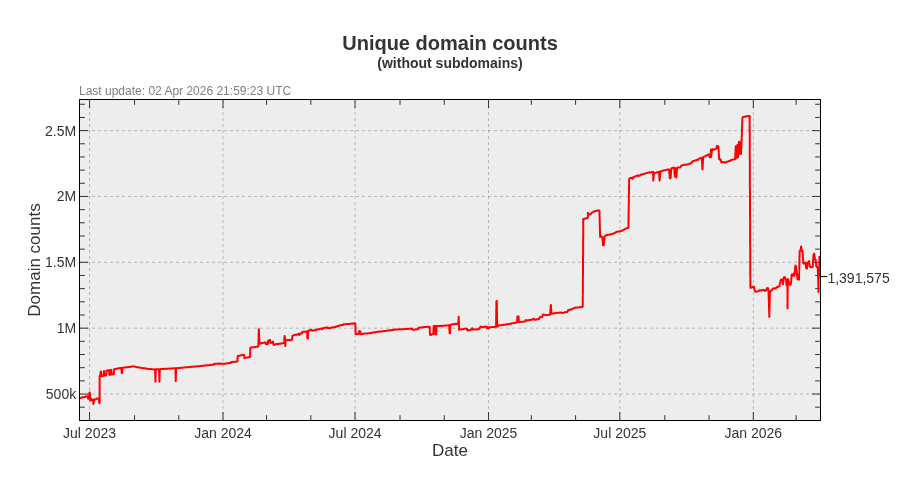
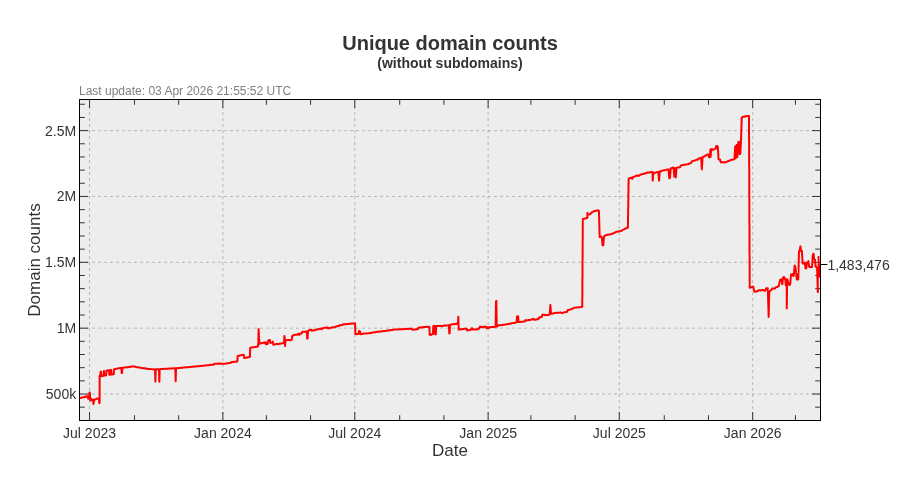
Update pages

diff --git a/README.md b/README.md
@@ -3,22 +3,22 @@ A blocklist file for blocking ads, trackers and malware domains.
 
[1 lines of base64/hex data omitted]
 
-- Unique domains: 2,035,772
-- Without subdomains: 1,391,575
-- Last update: 02 Apr 2026 21:59:23 UTC
-- Version: 2026.04.02.01
+- Unique domains: 2,134,493
+- Without subdomains: 1,483,476
+- Last update: 03 Apr 2026 21:55:52 UTC
+- Version: 2026.04.03.01
 
 
 ## Downloads:
 
 | Format             | Domain count      | Download Link |
 |------------------ | -----------------|-------------|
-| *Adblock Plus*     | 1,391,575 | [bad-hosts-abp](https://dl.cenk.app/bad-hosts/bad-hosts-abp) |
-| *Wildcard domains* | 1,391,575 | [bad-hosts-wildcard](https://dl.cenk.app/bad-hosts/bad-hosts-wildcard) |
-| *dnsmasq*          | 1,391,575 | [bad-hosts-dnsmasq](https://dl.cenk.app/bad-hosts/bad-hosts-dnsmasq) |
-| *hosts*            | 2,035,772 | [hosts](https://dl.cenk.app/bad-hosts/hosts) |
-| *hosts (ipv6)*     | 2,035,772 | [hosts-ipv6](https://dl.cenk.app/bad-hosts/hosts-ipv6) |
-| *Plain domains*    | 2,035,772 | [bad-hosts-domains](https://dl.cenk.app/bad-hosts/bad-hosts-domains) |
+| *Adblock Plus*     | 1,483,476 | [bad-hosts-abp](https://dl.cenk.app/bad-hosts/bad-hosts-abp) |
+| *Wildcard domains* | 1,483,476 | [bad-hosts-wildcard](https://dl.cenk.app/bad-hosts/bad-hosts-wildcard) |
+| *dnsmasq*          | 1,483,476 | [bad-hosts-dnsmasq](https://dl.cenk.app/bad-hosts/bad-hosts-dnsmasq) |
+| *hosts*            | 2,134,493 | [hosts](https://dl.cenk.app/bad-hosts/hosts) |
+| *hosts (ipv6)*     | 2,134,493 | [hosts-ipv6](https://dl.cenk.app/bad-hosts/hosts-ipv6) |
+| *Plain domains*    | 2,134,493 | [bad-hosts-domains](https://dl.cenk.app/bad-hosts/bad-hosts-domains) |
 
 ## Domain count history
 ### With subdomains
